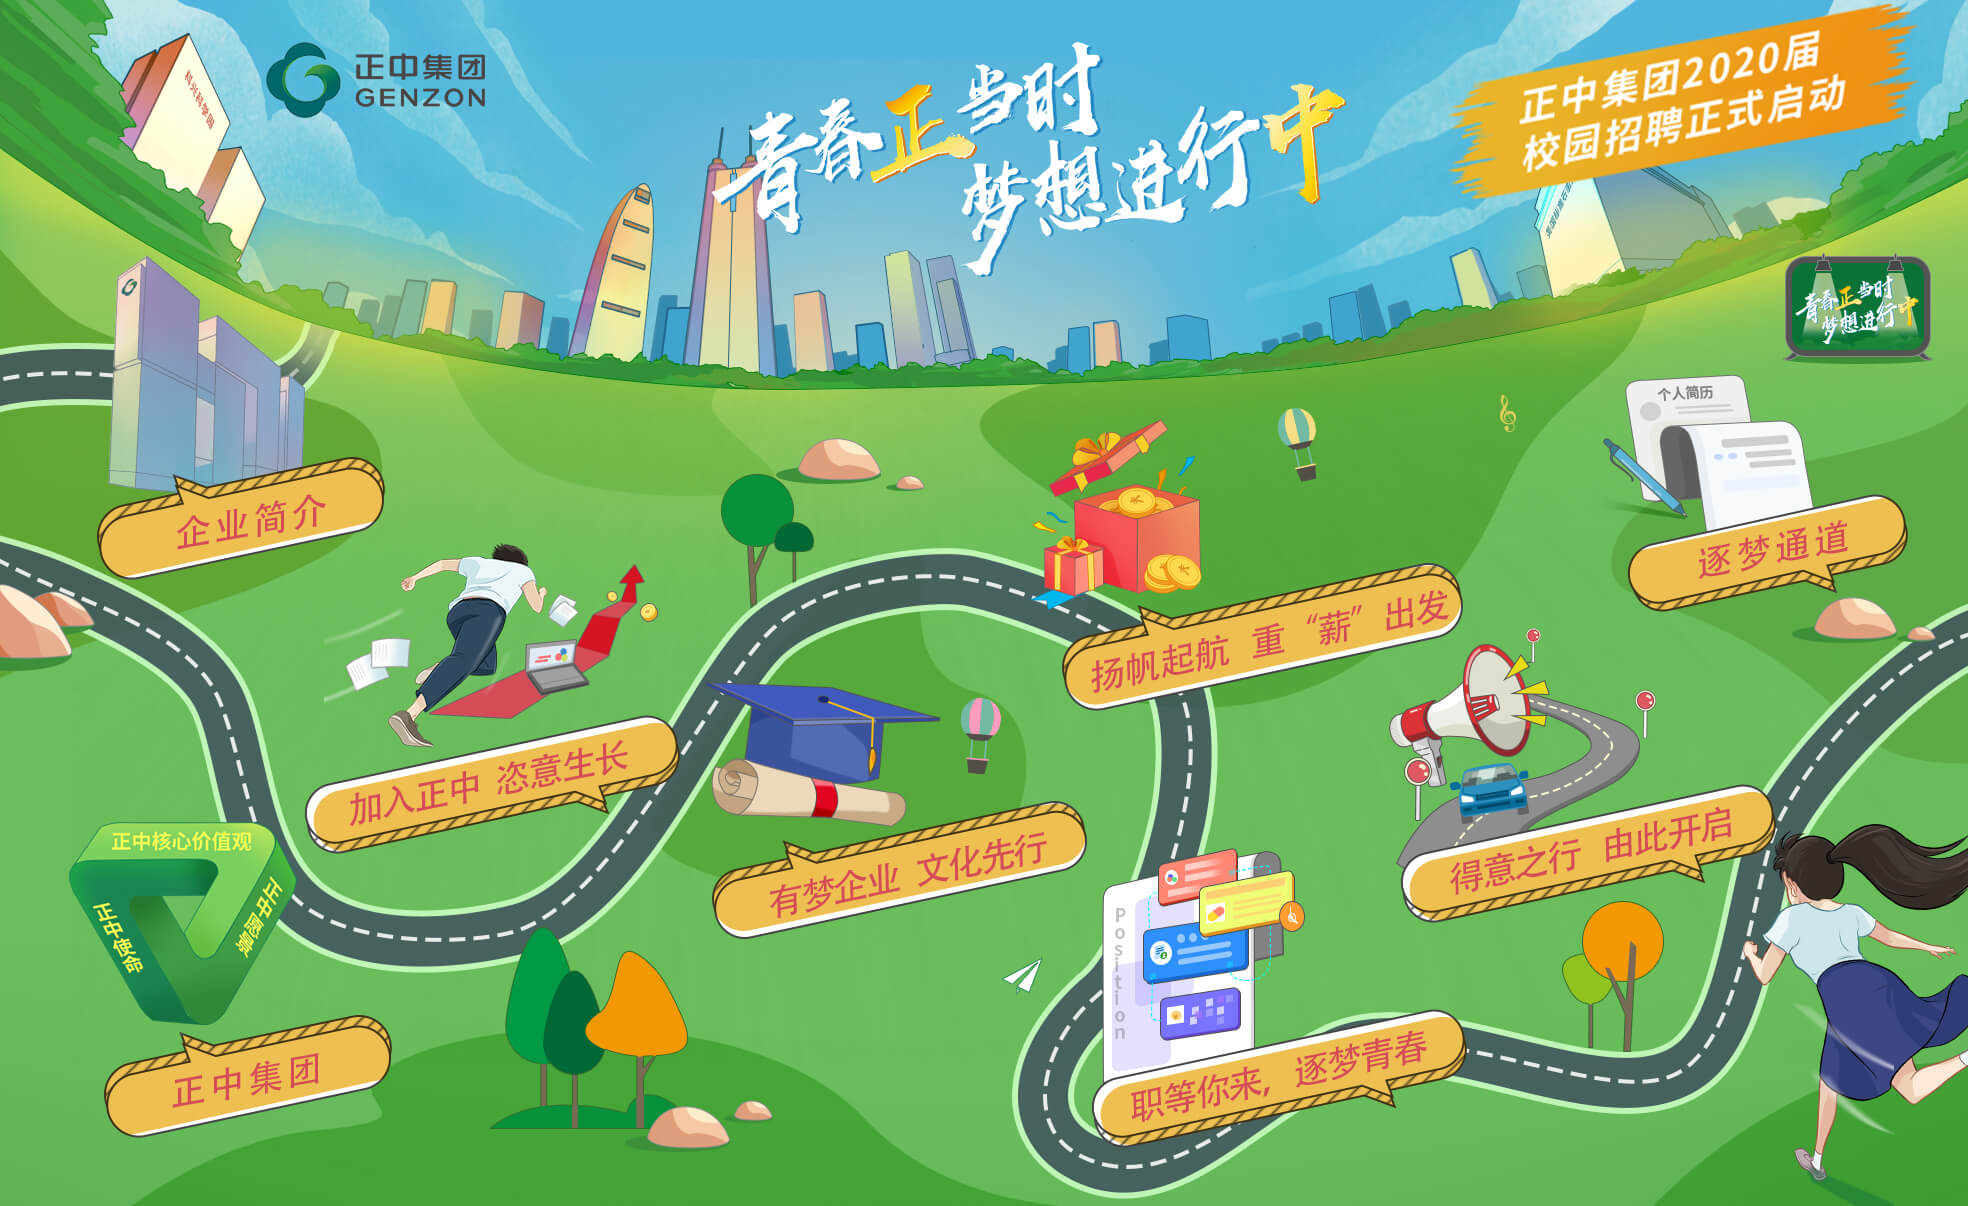
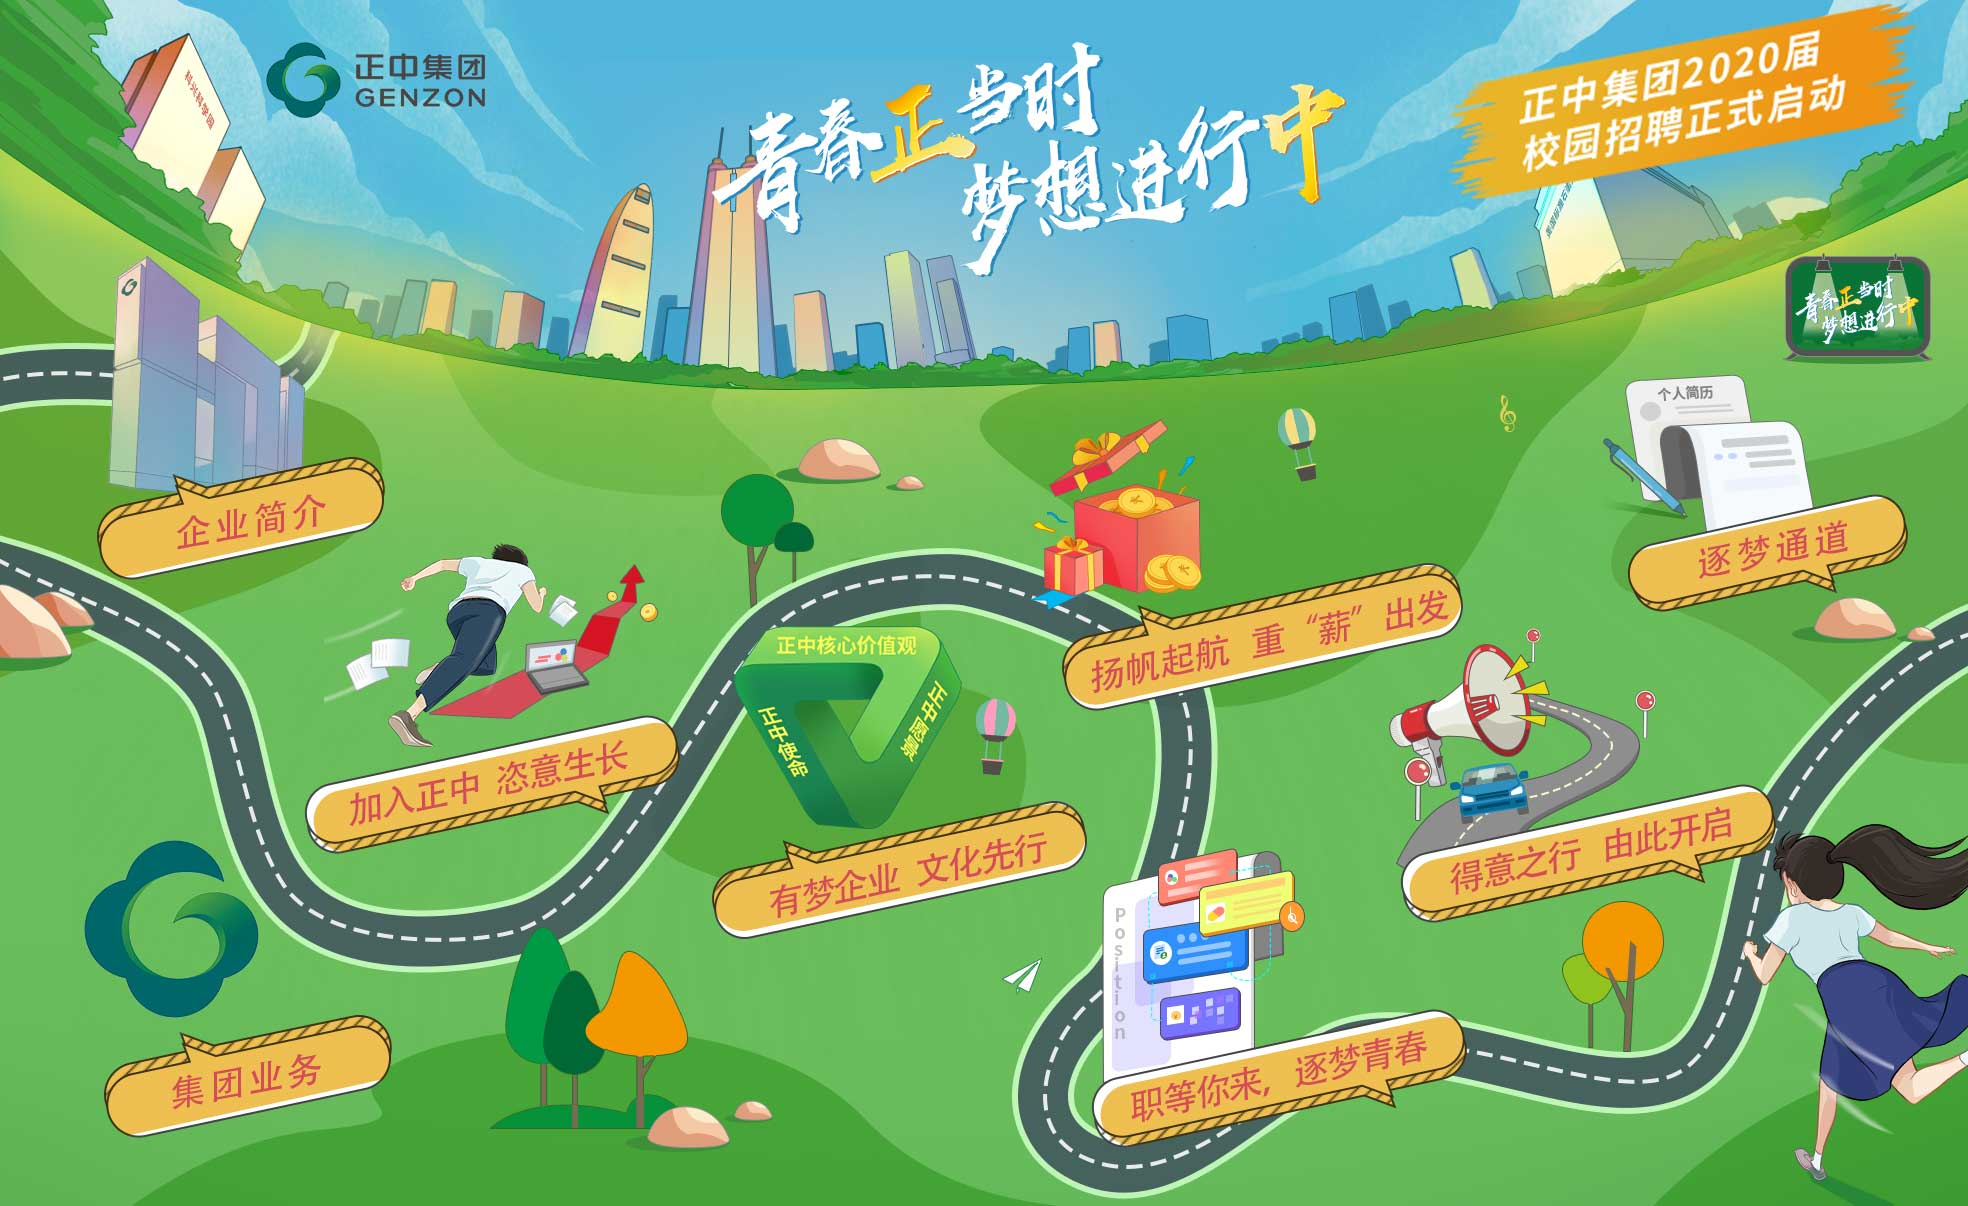
10-4

diff --git a/demo/zz/index.html b/demo/zz/index.html
@@ -174,7 +174,7 @@
                     <div class="campany c3" company='c3'>正中新材</div>
                     <div class="campany c4" company='c4'>正中创投&基金</div>
                     <div class="campany c5" company='c5'>科兴制药</div>
-                    <div class="campany c6" company='c6'>正中高尔夫会</div>
+                    <div class="campany c6" company='c6'>正中高尔夫球会</div>
                     <div class="campany c7" company='c7'>华美板材</div>
                     <div class="campany c8" company='c8'>正中冷链</div>
                     <div class="campany c9" company='c9'>正中酒店餐饮</div>
@@ -240,7 +240,7 @@
                 <div class="box-slogn "><img src="./images/box-slogn.png " alt=" " srcset=" "></div>
                 <div class="box-scroll depart-content ">
                     <div class="depart-1 "><img src="./images/depart-1.png " alt=" " srcset=" ">
-                        <div class="showActive "></div>
+                        <div class=" showActive "></div>
                     </div>
                 </div>
             </div>

diff --git a/demo/zz/css/style.less b/demo/zz/css/style.less
@@ -115,8 +115,8 @@ body,
             }
 
             &.c-culture {
-                left: 62vh;
-                top: 56vh;
+                left: 64vh;
+                top: 55vh;
             }
 
             &.c-depart {
@@ -723,12 +723,15 @@ body,
 
                     >.showActive {
                         position: absolute;
-                        left: 85%;
-                        margin-left: -35px;
+                        left: 85.5%;
+                        margin-left: -9.5vw;
                         top: 11%;
-                        width: 14%;
-                        height: 11%;
-                        // background: #000;
+                        width: 10vw;
+                        height: 10vw;
+                        // transform: translate(-100%, 0);
+                        // animation: zhuan 3s infinite;
+                        box-shadow: 0 0 20px 0px #268c8e;
+                        border-radius: 50%;
                     }
                 }
             }

diff --git a/demo/zz/css/style.css b/demo/zz/css/style.css
@@ -93,8 +93,8 @@ body,
   top: 70vh;
 }
 .container .content .cir.c-culture {
-  left: 62vh;
-  top: 56vh;
+  left: 64vh;
+  top: 55vh;
 }
 .container .content .cir.c-depart {
   left: 87vh;
@@ -543,11 +543,13 @@ body,
 }
 .depart .page-box .box-content .depart-content > div > .showActive {
   position: absolute;
-  left: 85%;
-  margin-left: -35px;
+  left: 85.5%;
+  margin-left: -9.5vw;
   top: 11%;
-  width: 14%;
-  height: 11%;
+  width: 10vw;
+  height: 10vw;
+  box-shadow: 0 0 20px 0px #268c8e;
+  border-radius: 50%;
 }
 .depart .depart-box {
   max-height: 0vh;

diff --git a/demo/zz/js/json.js b/demo/zz/js/json.js
@@ -49,7 +49,7 @@ var companyData = {
     },
     c9: {
         title: "正中酒店餐饮",
-        img: "c8.jpg",
+        img: "c9.jpg",
         name: "正中酒店餐饮管理有限公司",
         content: '是隶属正中集团旗下的一家专业从事酒店及餐厅经营管理的公司，旗下有五星级酒店隐秀山居、高端餐饮荣粤酒家、大桥日本料理等。'
     }
